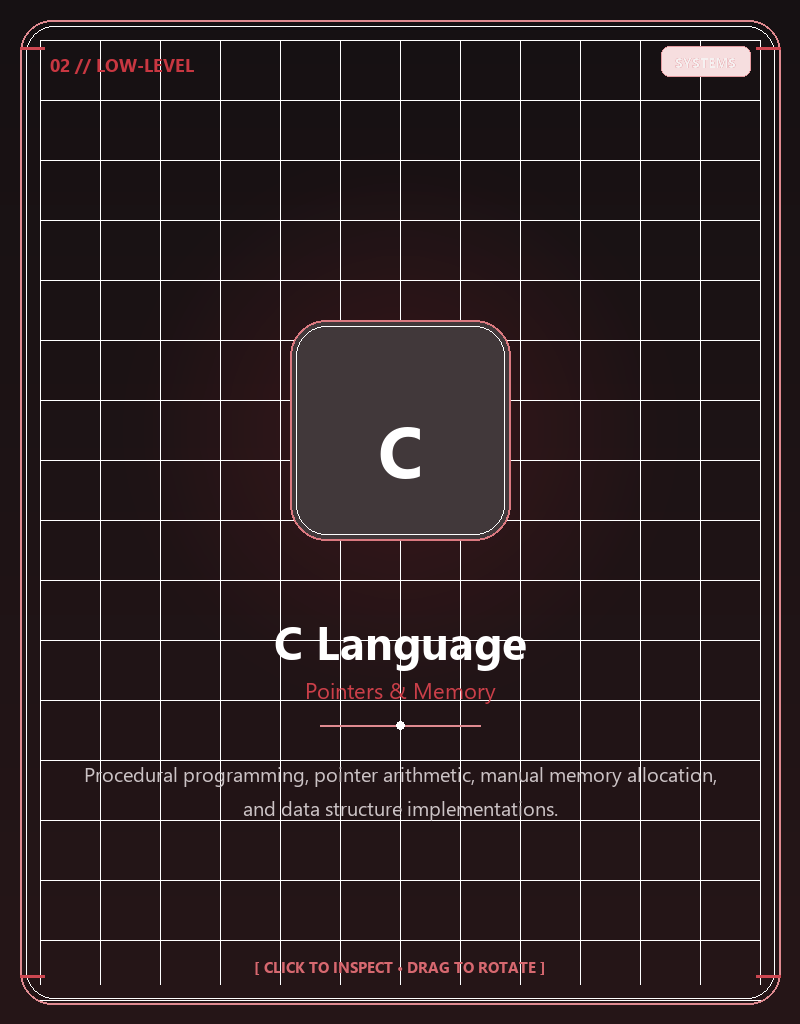
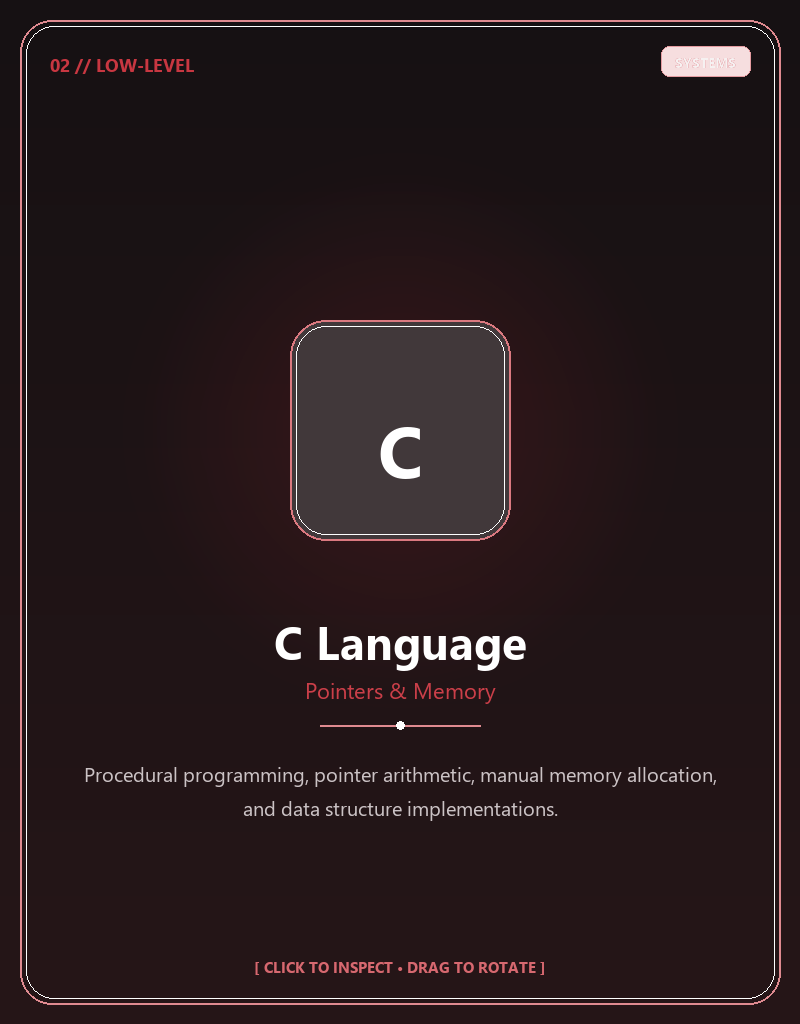
fix(skills): remove duplicate static skills grid and clean white grid overlay from 3D skill cards to keep them plain

Changed region(s): [[0.9375, 0.0312, 0.9688, 0.0625], [0.0312, 0.9375, 0.0625, 0.9688], [0.0312, 0.0312, 0.0625, 0.0625]]

diff --git a/src/components/FolderTabPortfolio.tsx b/src/components/FolderTabPortfolio.tsx
@@ -102,76 +102,6 @@ export const FolderTabPortfolio: React.FC<FolderTabPortfolioProps> = ({ onBack }
             place: "Nava Jyothi High School",
           },
         ]}
-        skills={[
-          {
-            category: "Languages",
-            subtitle: "Core Stack",
-            tone: "blue",
-            skills: [
-              {
-                name: "C",
-                desc: "Pointers, memory allocation, and data structures.",
-              },
-              {
-                name: "Java",
-                desc: "OOP architecture, inheritance, and multithreading.",
-              },
-              {
-                name: "Python",
-                desc: "Algorithms, automation scripting, and ML workflows.",
-              },
-            ],
-          },
-          {
-            category: "Databases",
-            subtitle: "Storage",
-            tone: "green",
-            skills: [
-              {
-                name: "SQL",
-                desc: "Schema design, joins, indexing, and queries.",
-              },
-              {
-                name: "DBMS",
-                desc: "Normalization, ACID properties, and relational models.",
-              },
-            ],
-          },
-          {
-            category: "AI & ML",
-            subtitle: "Specialization",
-            tone: "orange",
-            skills: [
-              {
-                name: "Machine Learning",
-                desc: "Supervised and unsupervised models, neural networks.",
-              },
-              {
-                name: "Prompt Engineering",
-                desc: "LLM orchestration, prompt design, and agents.",
-              },
-            ],
-          },
-          {
-            category: "Tools & Frameworks",
-            subtitle: "Ecosystem",
-            tone: "yellow",
-            skills: [
-              {
-                name: "Next.js & React",
-                desc: "Component UI architecture, hooks, and responsive apps.",
-              },
-              {
-                name: "Git & GitHub",
-                desc: "Version control, branching workflows, and collaboration.",
-              },
-              {
-                name: "Developer Tooling",
-                desc: "VS Code, Figma, and POSIX shell toolchains.",
-              },
-            ],
-          },
-        ]}
         categories={[
           { id: "cloud", label: "Cloud & Web", tone: "blue", kind: "poster" },
           { id: "health", label: "Healthcare", tone: "green", kind: "render" },

diff --git a/src/components/ui/folder-tab-portfolio-template.tsx b/src/components/ui/folder-tab-portfolio-template.tsx
@@ -2271,43 +2271,6 @@ export default function FolderTabPortfolioTemplate({
                 </div>
               </div>
             )}
-
-            {skills.length > 0 && (
-              <div className="ftp-skills-grid">
-                {skills.map((group, idx) => (
-                  <Folder
-                    key={group.category}
-                    tone={group.tone}
-                    tabAt={0.08}
-                    className="ftp-card"
-                    tab={
-                      <>
-                        {group.category}
-                        <span className="ftp-tchip">{pad2(idx + 1)}</span>
-                      </>
-                    }
-                  >
-                    <div style={{ padding: "24px 20px" }}>
-                      <div style={{ display: "flex", justifyContent: "space-between", alignItems: "baseline", marginBottom: 16 }}>
-                        <h3 style={{ fontSize: 20, fontWeight: 700, margin: 0, textTransform: "uppercase" }}>{group.category}</h3>
-                        {group.subtitle && <span style={{ fontSize: 11, opacity: 0.7, fontFamily: "ui-monospace, monospace" }}>{group.subtitle}</span>}
-                      </div>
-                      <div>
-                        {group.skills.map((sk) => (
-                          <div key={sk.name} className="ftp-skill-item">
-                            <div className="ftp-skill-name">
-                              <span style={{ color: palette[group.tone] }}>✦</span>
-                              <span>{sk.name}</span>
-                            </div>
-                            <p className="ftp-skill-desc">{sk.desc}</p>
-                          </div>
-                        ))}
-                      </div>
-                    </div>
-                  </Folder>
-                ))}
-              </div>
-            )}
           </section>
         )}
 
